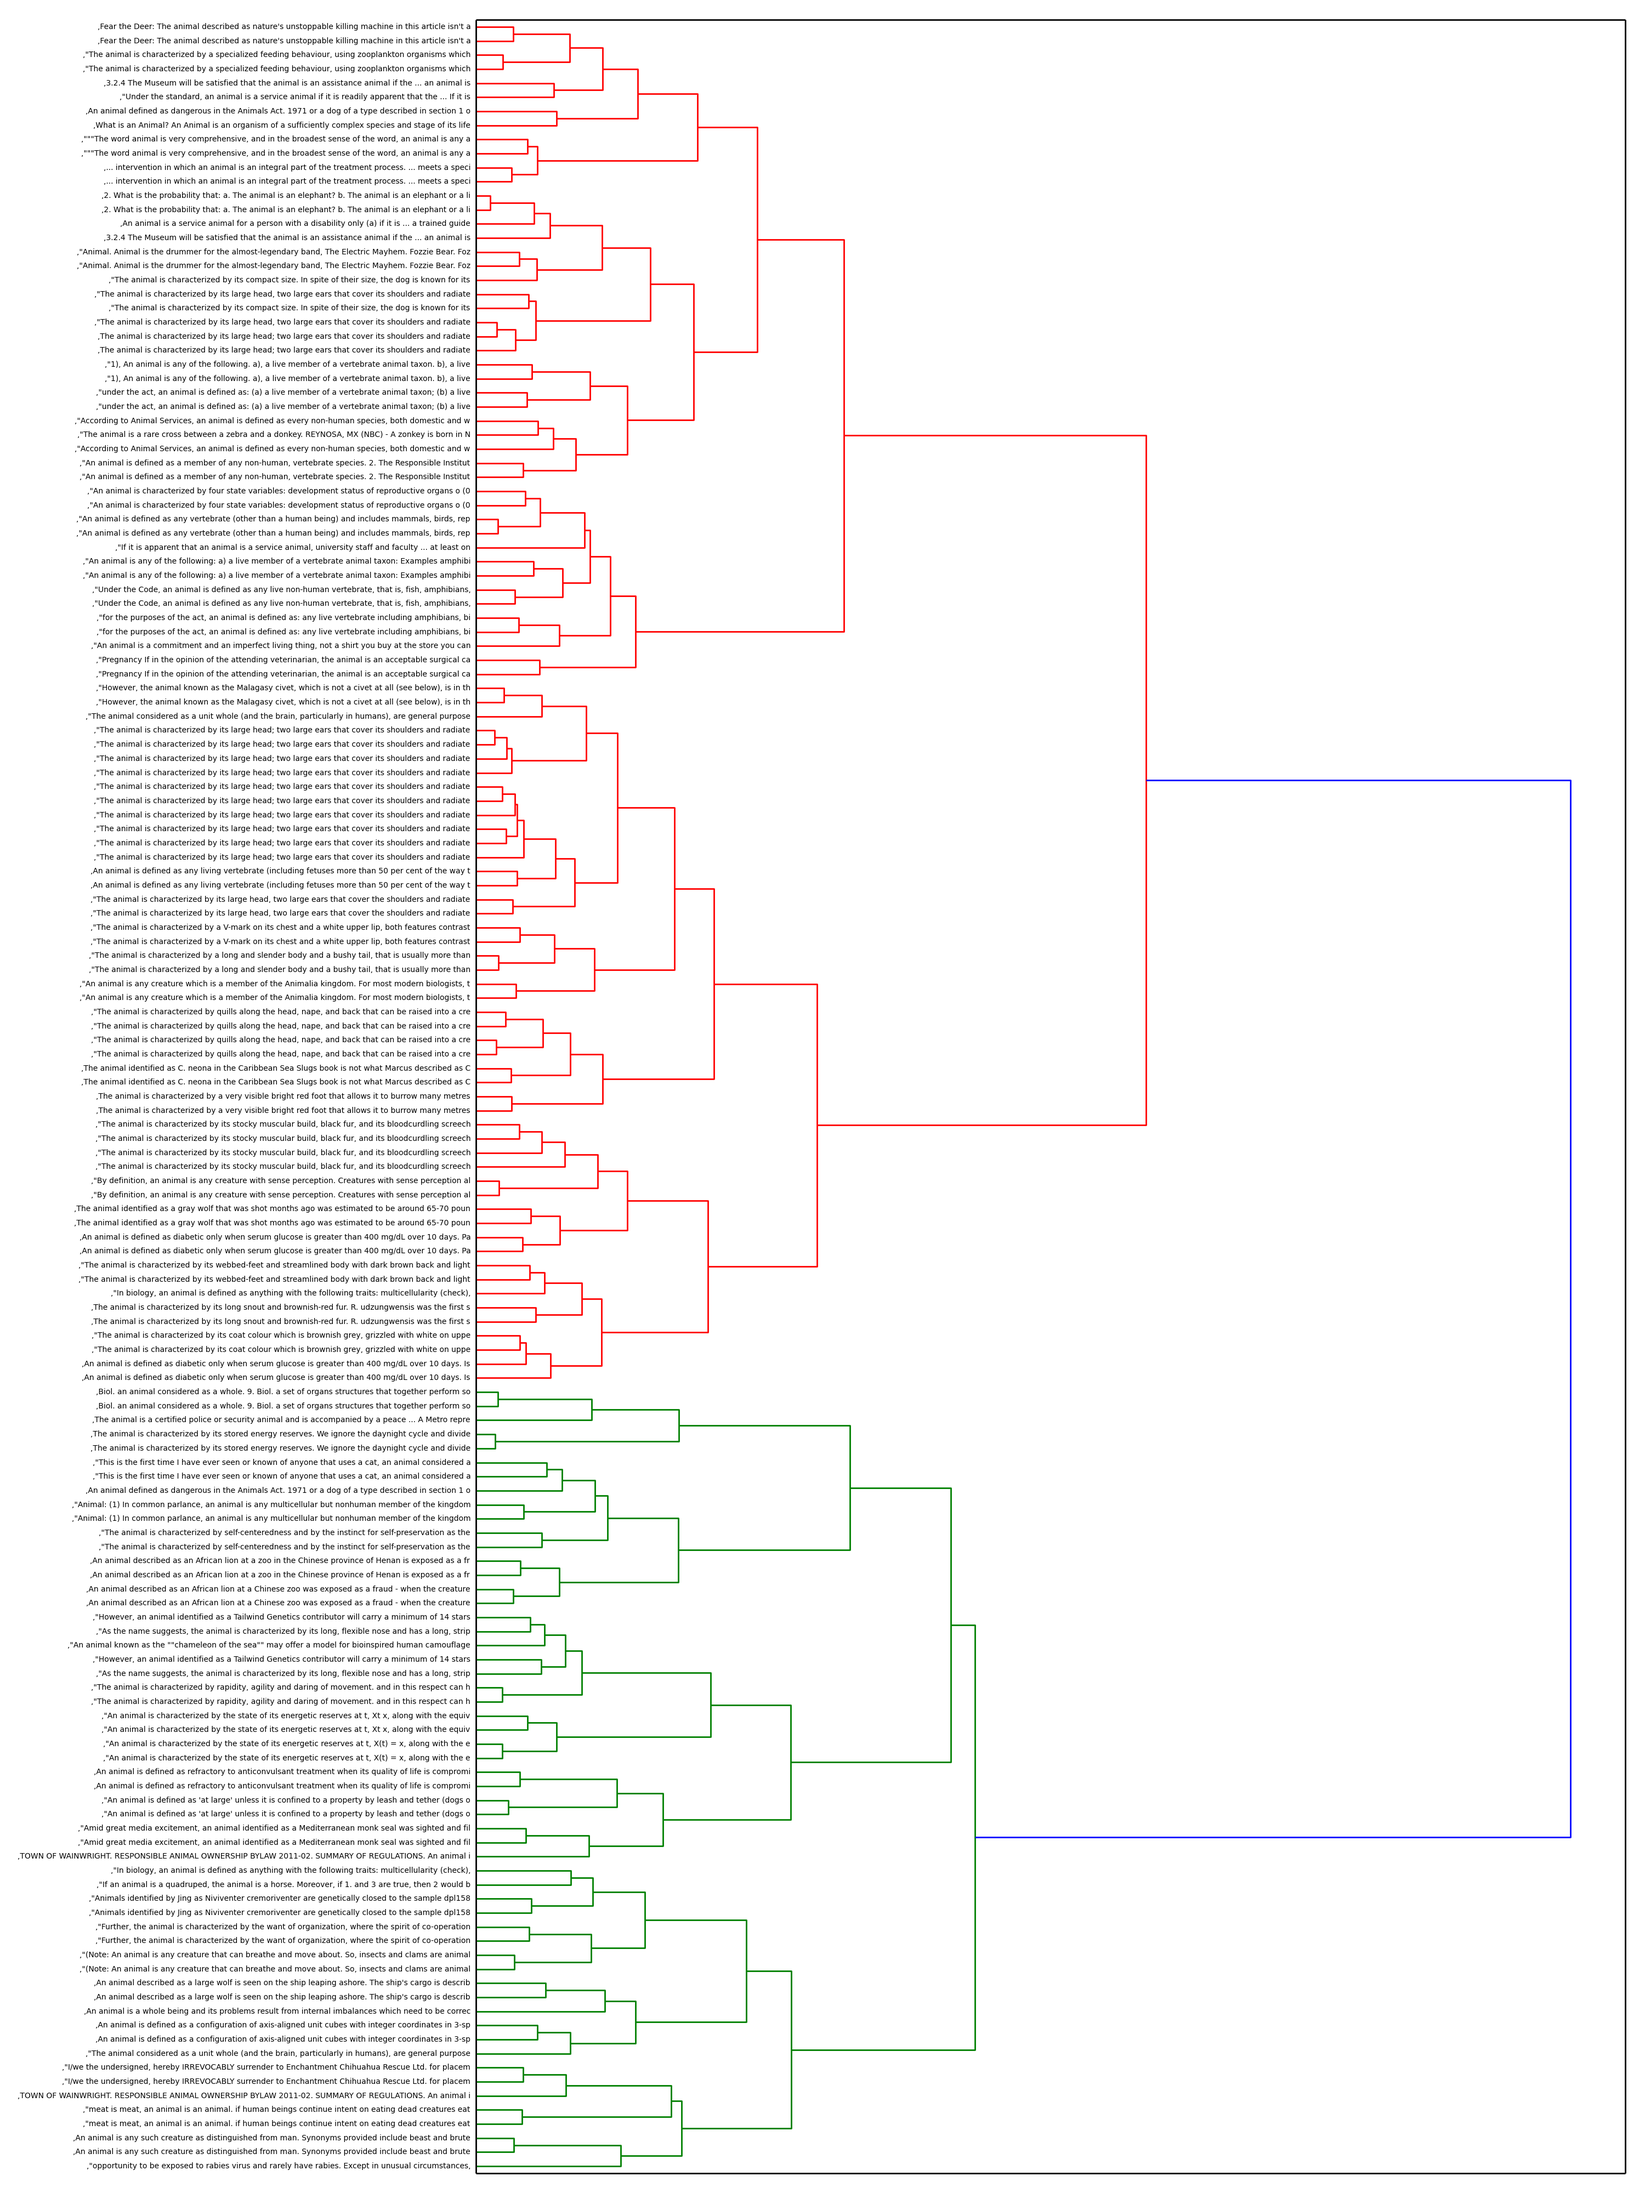
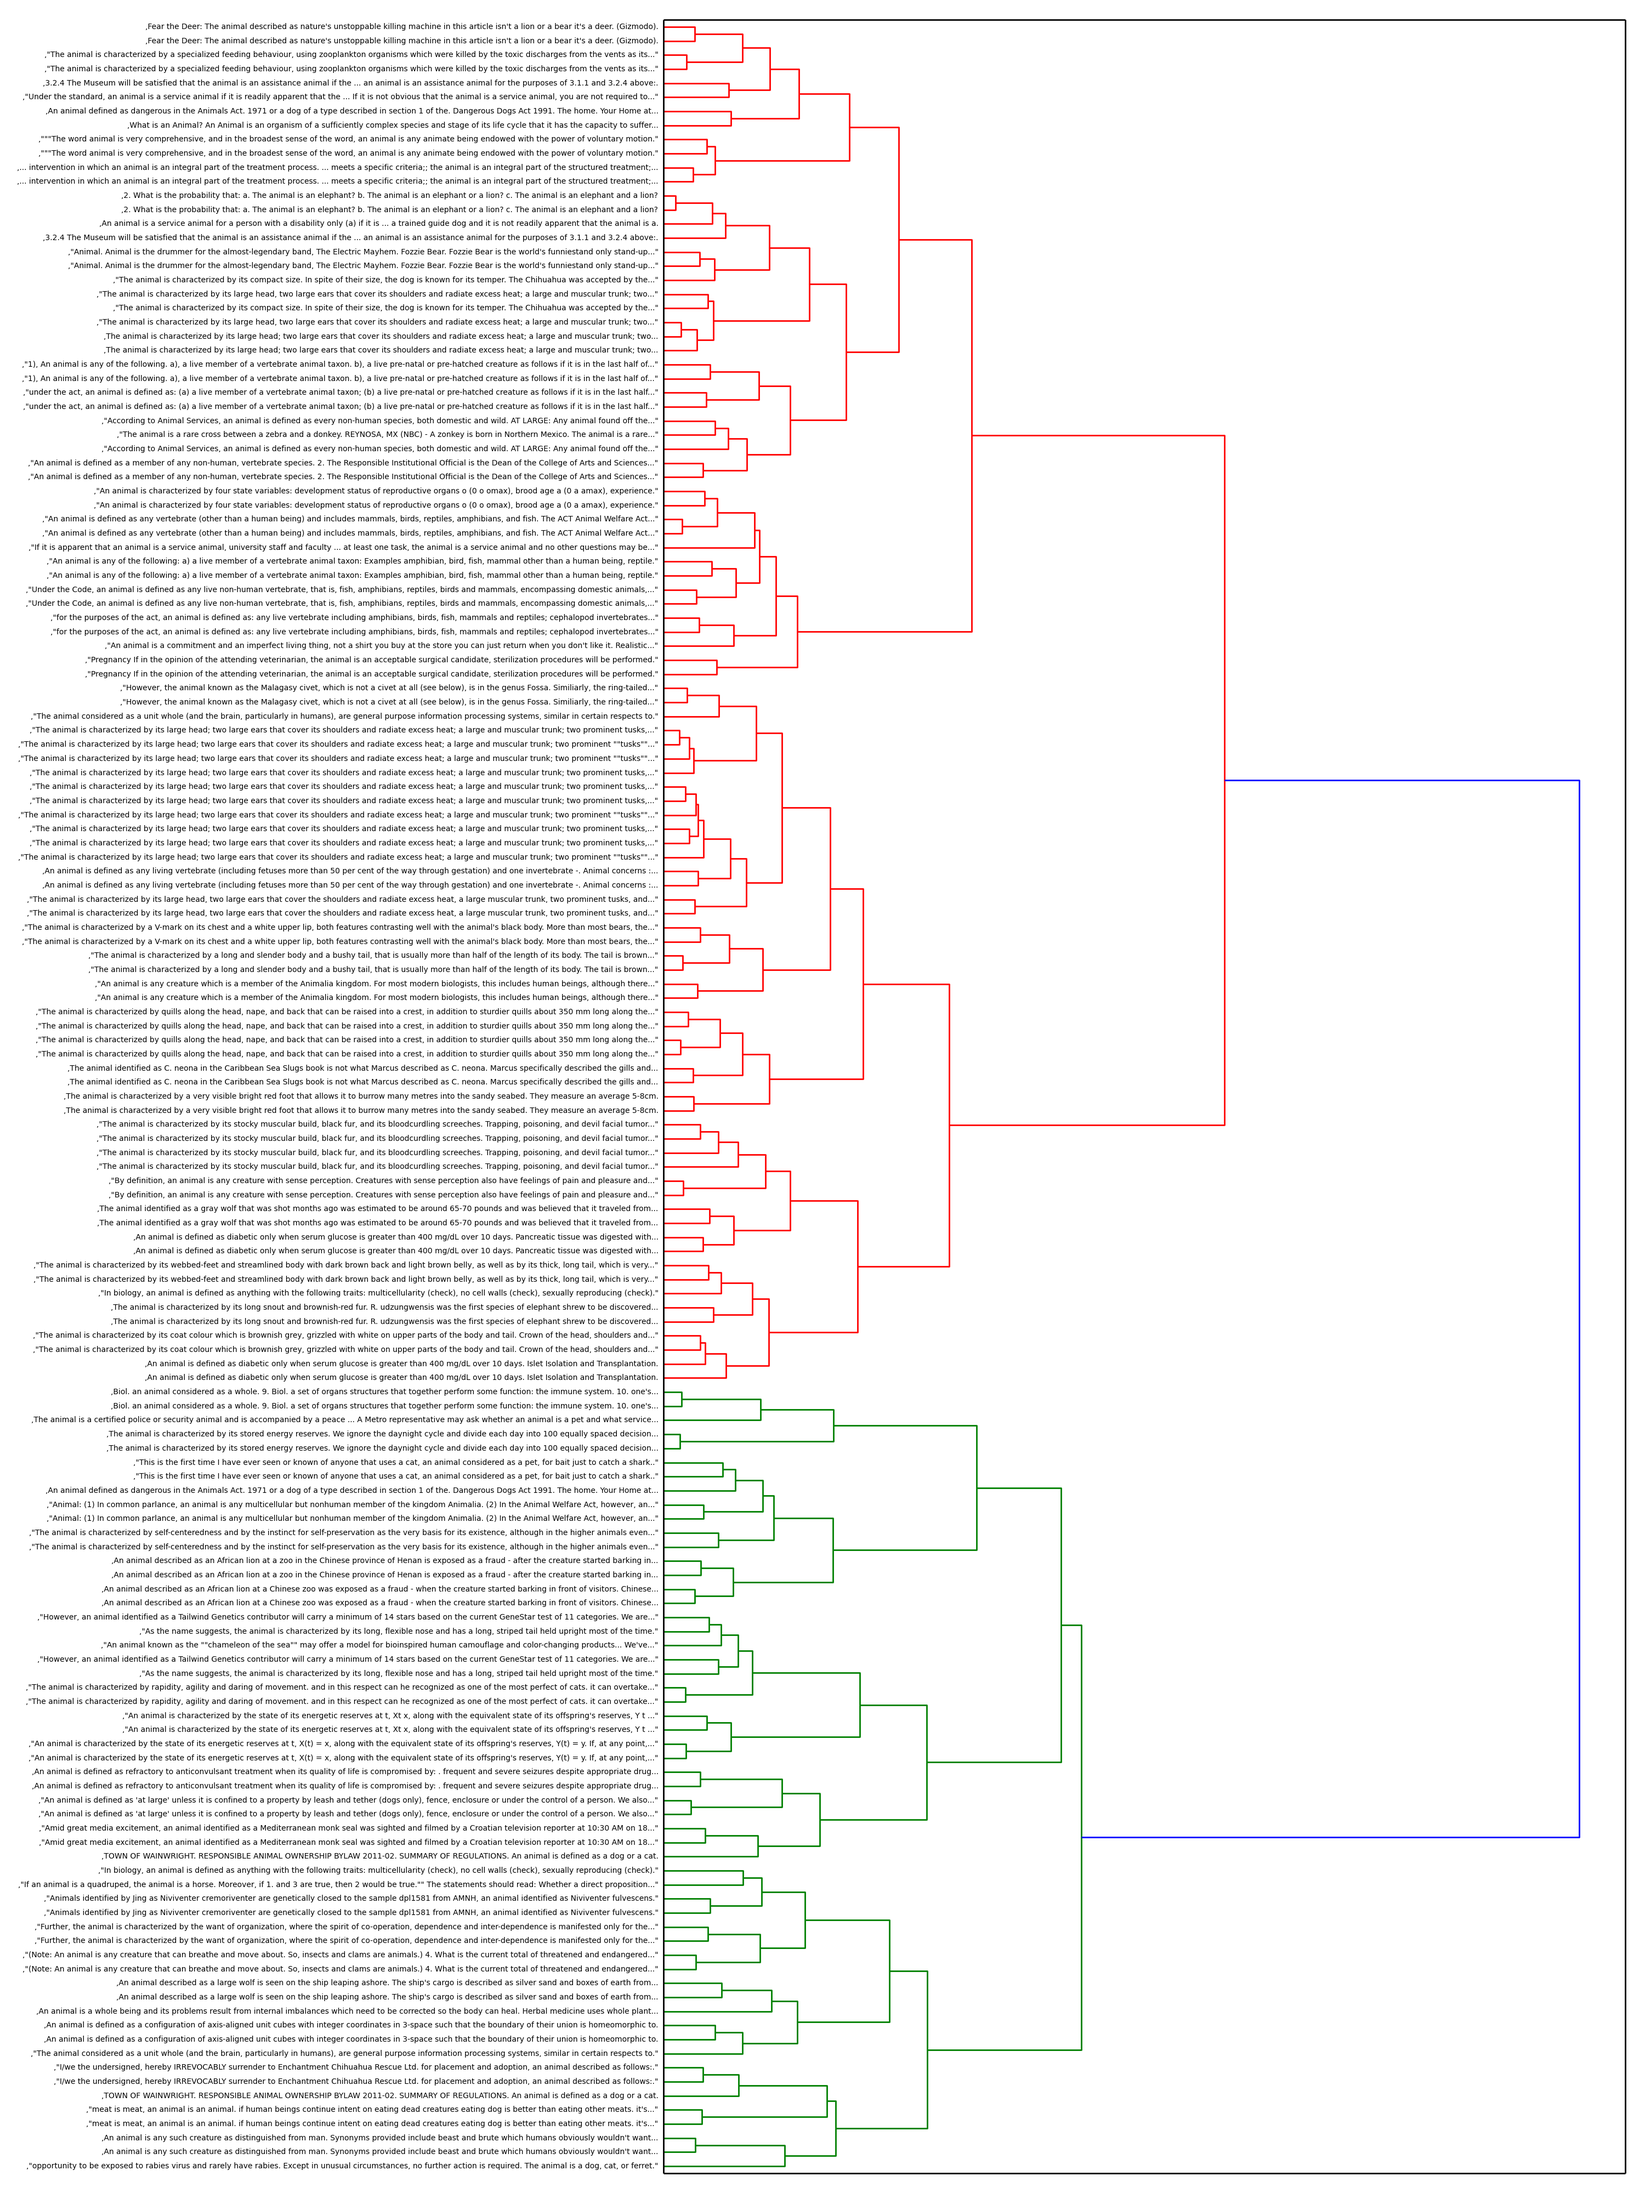
Sentece clustering

Changed region(s): [[0.031, 0.0, 0.496, 1.0]]

diff --git a/sent_clustering.py b/sent_clustering.py
@@ -23,7 +23,7 @@ route = "/almac/ignacio/data/describe_corpus/txt/"
 min_show_length = 100
 
 def cleaner(line): # The default is the average sentence length in English
-    return line.strip()[:min_show_length]
+    return line.strip()#[:min_show_length]
 
 try:
     source = search(r"(?:vectors|pairs)_([A-Za-z]+[\-A-Za-z0-9]+)_?(T[0-9]{2,3}_C[1-9]_[0-9]{2}|d\d+t|\w+)?_([d2v|w2v|coocc\w*|doc\w*]*)_(H[0-9]{1,4})_?([sub|co[nvs{0,2}|rr|nc]+]?)?_(m[0-9]{1,3}[_w?[0-9]{0,3}]?)", args.x, M|I)
